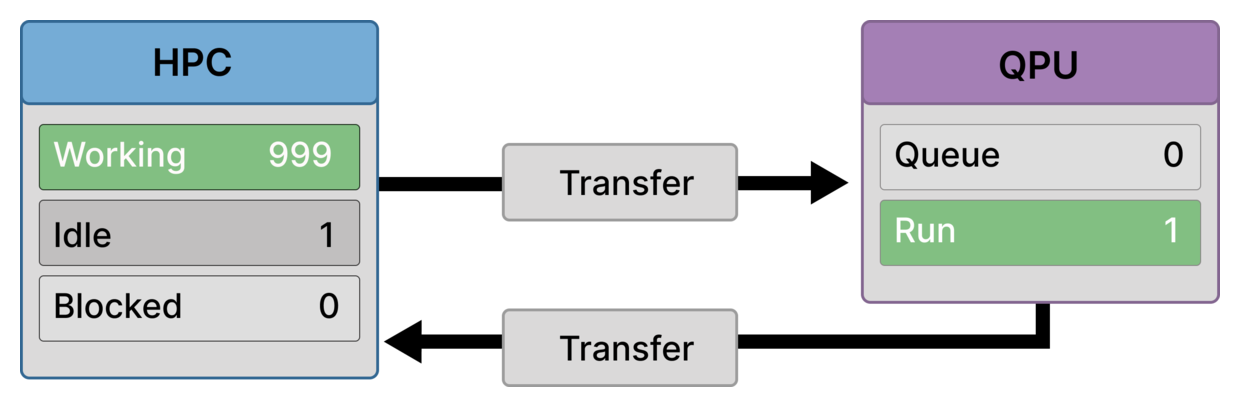
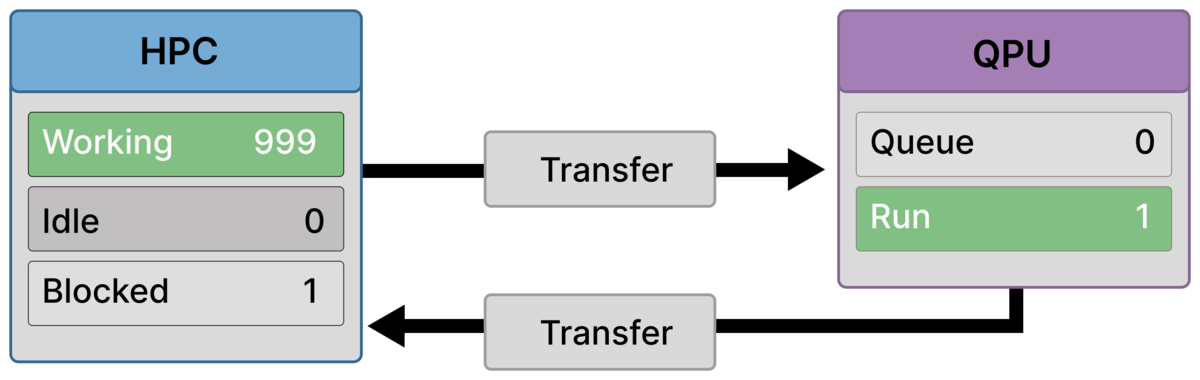
fixed Scenario A

Changed region(s): [[0.0, 0.0, 1.0, 0.9842], [0.0925, 0.0868, 0.185, 0.2026], [0.8017, 0.0868, 0.8942, 0.2026]]

diff --git a/scenario-a.md b/scenario-a.md
@@ -66,7 +66,7 @@ Scenario A relies on a narrow but explicit set of assumptions.
 ### HPC execution model
 - Many ranks execute classical work concurrently
 - A rank submitting a quantum job does not stall others
-- Submission temporarily removes that rank from classical work but does not block progress elsewhere
+- Submission temporarily blocks the submitting rank (it cannot continue classical work until its quantum result returns), but it does not block progress elsewhere.
 
 ### Quantum execution model
 - Single-lane (serial) QPU execution
@@ -99,7 +99,7 @@ This represents a long classical phase (e.g., preprocessing or local computation
 </p>
 
 One rank finishes a classical step and submits a quantum job.  
-That rank temporarily becomes **Idle** while the job is transferred.
+That rank becomes **Blocked** (waiting on its own quantum call) while the job is transferred and executed.
 
 Crucially, no other rank is affected.
 
@@ -137,7 +137,7 @@ This overlap is the defining feature of Scenario A: quantum execution does not r
 </p>
 
 The quantum result is transferred back.  
-The submitting rank resumes classical work immediately. The QPU becomes idle.
+The result returns and unblocks the submitting rank, which resumes classical work immediately. The QPU becomes idle.
 
 ---
 
